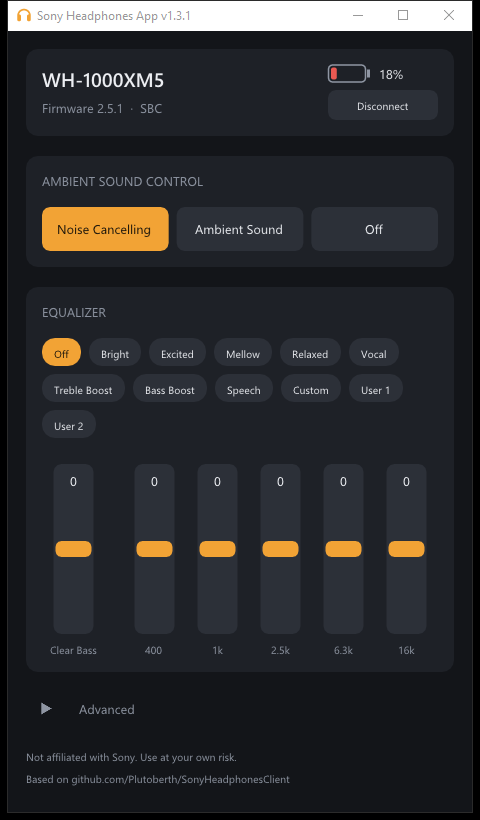
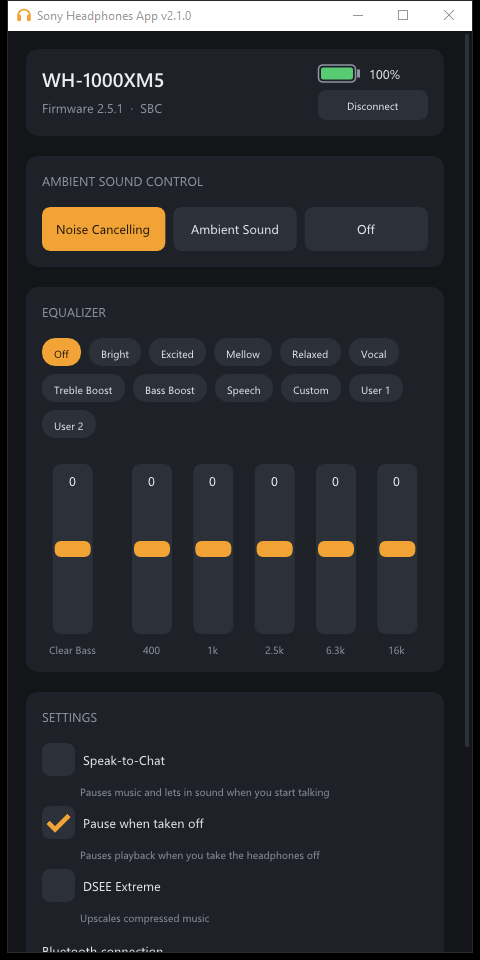
README: v2.1.0 screenshots, including the Settings card

diff --git a/README.md b/README.md
@@ -6,7 +6,9 @@
 </p>
 
 <p align="center">
-  <img width="400" src="static/screenshot.png" alt="Screenshot of the app connected to a WH-1000XM5"/>
+  <img width="360" src="static/screenshot.png" alt="The app connected to a WH-1000XM5: battery, noise cancelling modes and the equalizer"/>
+  &nbsp;
+  <img width="360" src="static/screenshot-settings.png" alt="The Settings card: Speak-to-Chat, pause when taken off, DSEE Extreme, Bluetooth connection mode and auto power off"/>
 </p>
 
 > [!WARNING]
